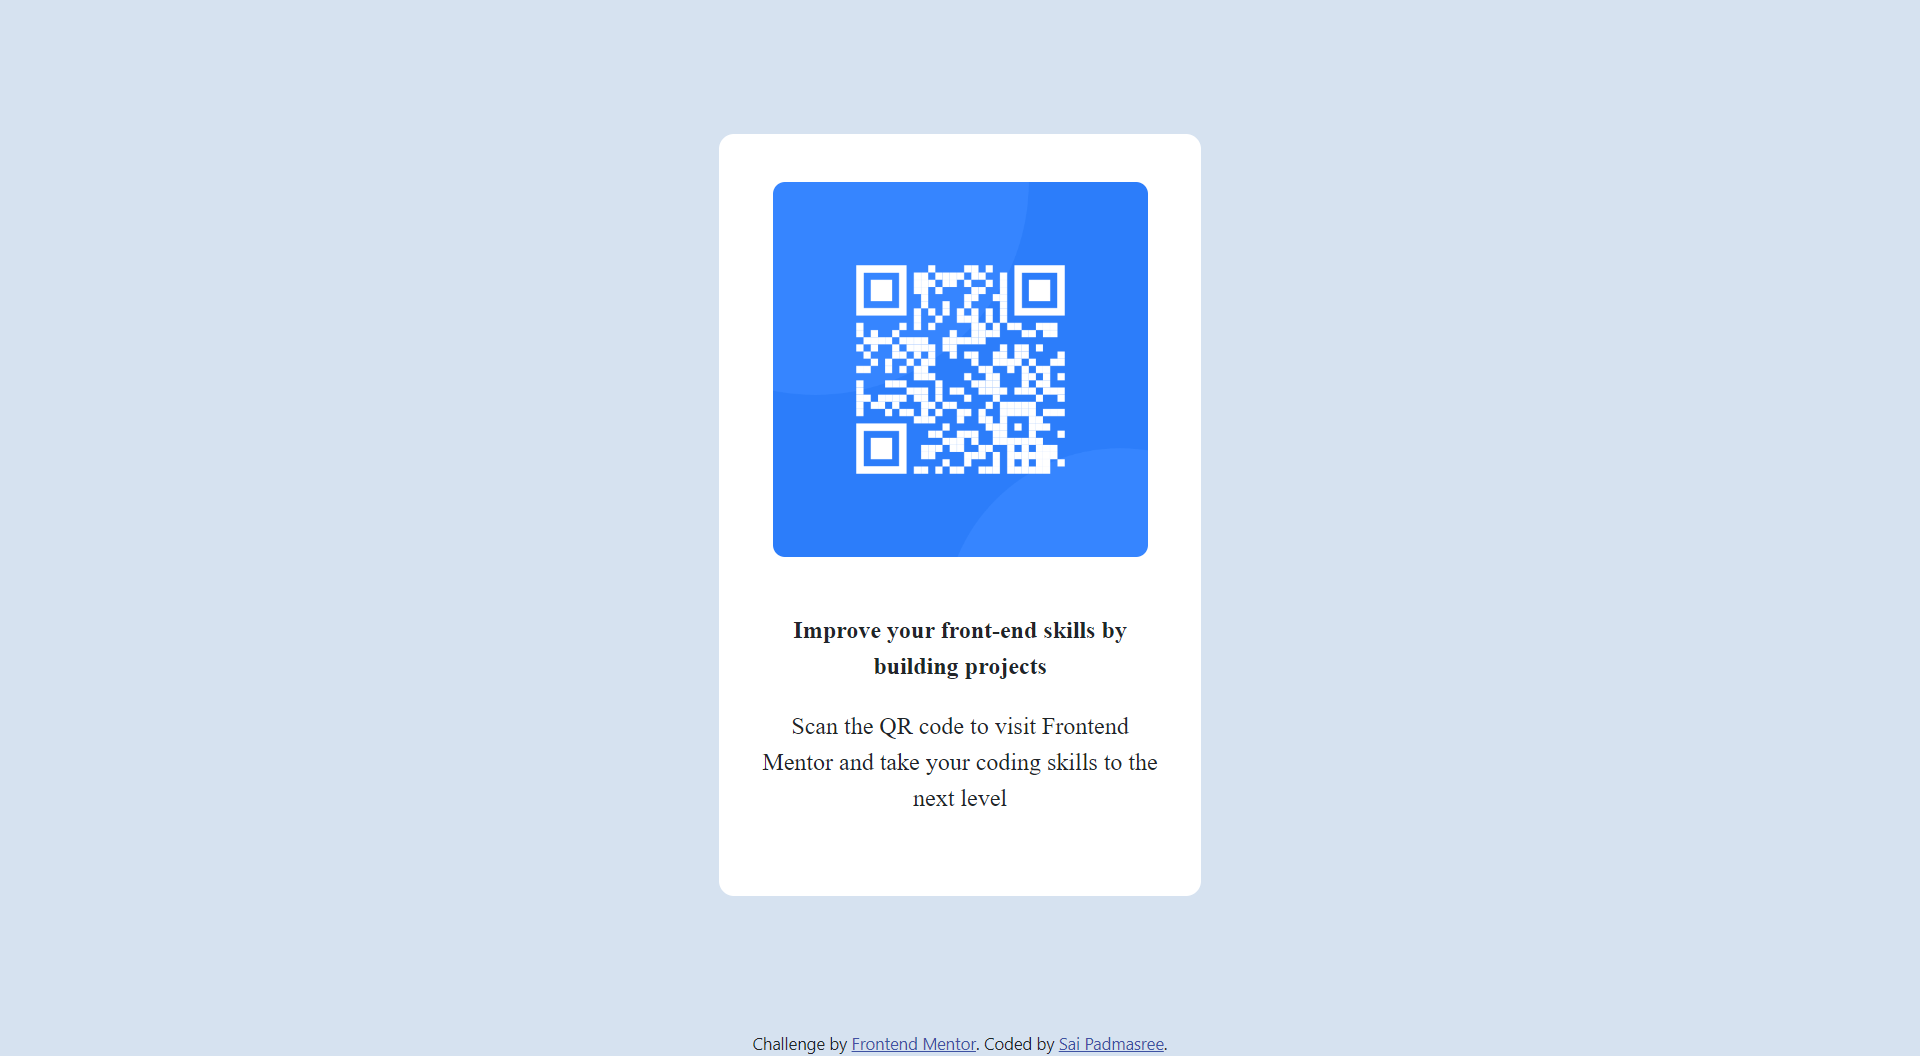
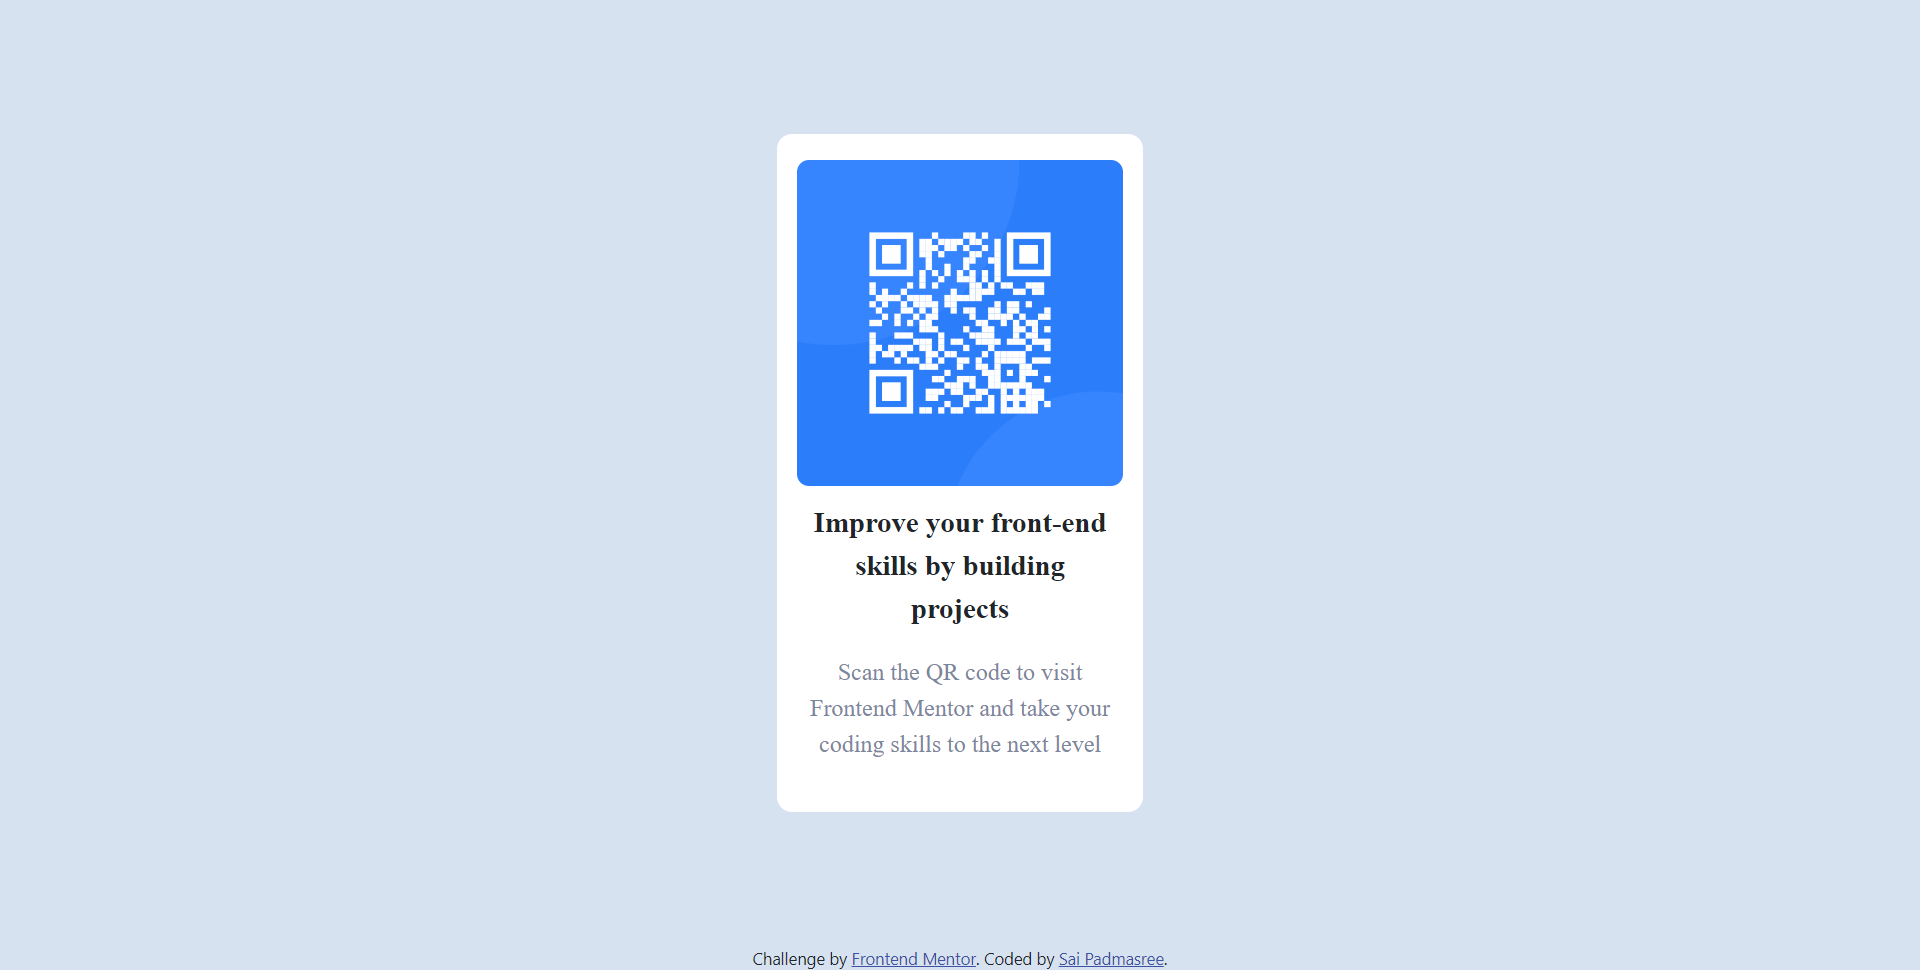
Updated fonts and colors
Updated fonts and colors

Changed region(s): [[0.375, 0.1237, 0.625, 0.866], [0.4062, 0.9897, 0.625, 1.0]]

diff --git a/index.html b/index.html
@@ -20,7 +20,7 @@
 }
     .container{
       text-align: center;
-      padding: 7% 32%;
+      padding: 7% 35%;
       
     }
     body{
@@ -28,32 +28,33 @@
     }
     .content{
       text-align: center;
-      padding : 5% 2%;
+      padding : 5% 0.5%;
       border-radius: 10px;
     
       background-color: white;
     }
     .image{
-      width: 95%;
-      max-width: 250px;
+      width: 100%;
+
       height: auto;
       border-radius: 8px;
     }
     .imagediv{
-      padding:5%;
+      padding:2% 5%;
     }
     .paradiv{
-      padding:7%;
+      padding:2% 7%;
     }
     .heading {
       font-family: 'Outfit';
-      font-size: 1rem;
+      font-size: 1.2rem;
       font-weight: bold;
     }
     .info {
       font-family: 'Outfit';
       font-size: 1rem;
       font-weight: lighter;
+      color: hsl(220, 15%, 55%);
     }
   </style>
 </head>
